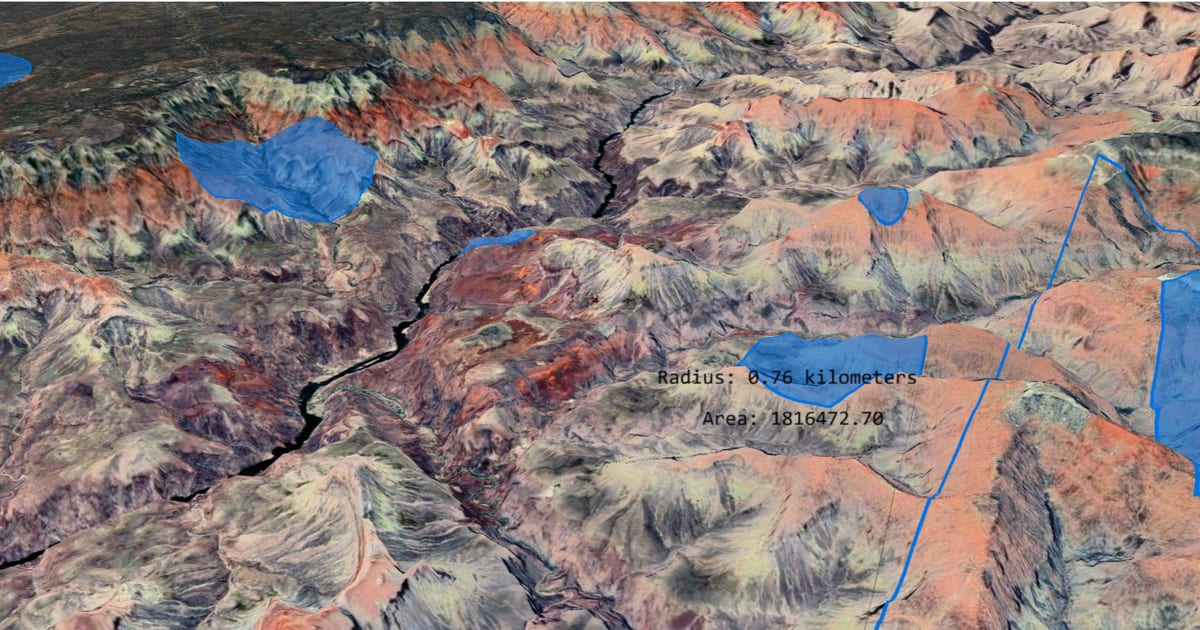
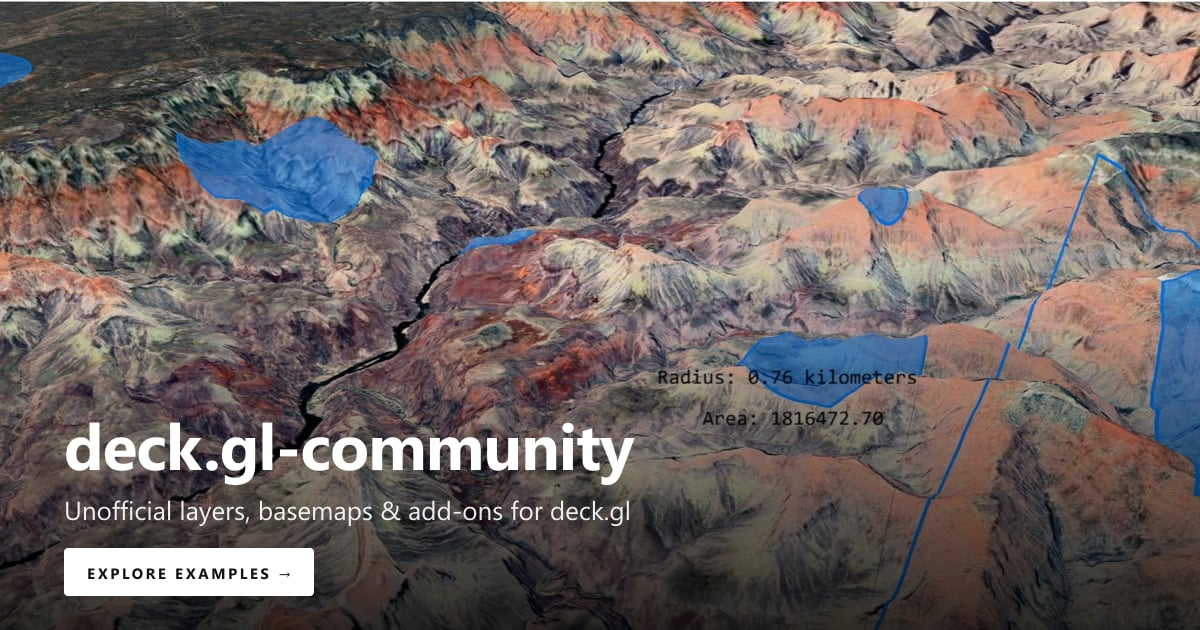
fix(website): expand OG title/description, add CTA + explicit image meta (#606)
Addresses social-preview validator feedback and LinkedIn's "Cannot
display preview" error:

- Replace home Layout's short title ("Home", -> 24 chars combined)
  and 7-char description ("deck.gl") with a 40-char title and
  177-char description so the combined og:title (57 chars) and
  og:description both land in the recommended window.
- Burn a CTA overlay into og-preview.jpg: bottom gradient + project
  name, tagline, and "EXPLORE EXAMPLES" pill, anchored bottom-left.
  Still 164 KB.
- Add explicit og:image:width / og:image:height / og:image:type +
  twitter:card via themeConfig.metadata. LinkedIn in particular
  often fails to render previews without these dimension tags.

diff --git a/website/src/pages/index.jsx b/website/src/pages/index.jsx
@@ -77,7 +77,10 @@ export default function IndexPage() {
   const baseUrl = useBaseUrl('/');
 
   return (
-    <Layout title="Home" description="deck.gl">
+    <Layout
+      title="Unofficial layers, basemaps & add-ons"
+      description="deck.gl-community is a collection of unofficial add-on modules for deck.gl — advanced layer types, basemap integrations, editable GeoJSON, 3D tiles, graph & infovis layers, and more."
+    >
       <Home HeroExample={HeroExample}>
         <div style={{position: 'relative'}}>
           <FeatureImage src={`${baseUrl}images/maps.jpg`} />

diff --git a/website/docusaurus.config.js b/website/docusaurus.config.js
@@ -217,6 +217,12 @@ const config = {
     /** @type {import('@docusaurus/preset-classic').ThemeConfig} */
     ({
       image: 'images/og-preview.jpg',
+      metadata: [
+        {property: 'og:image:width', content: '1200'},
+        {property: 'og:image:height', content: '630'},
+        {property: 'og:image:type', content: 'image/jpeg'},
+        {name: 'twitter:card', content: 'summary_large_image'}
+      ],
       navbar: {
         title: 'deck.gl-community',
         logo: {
